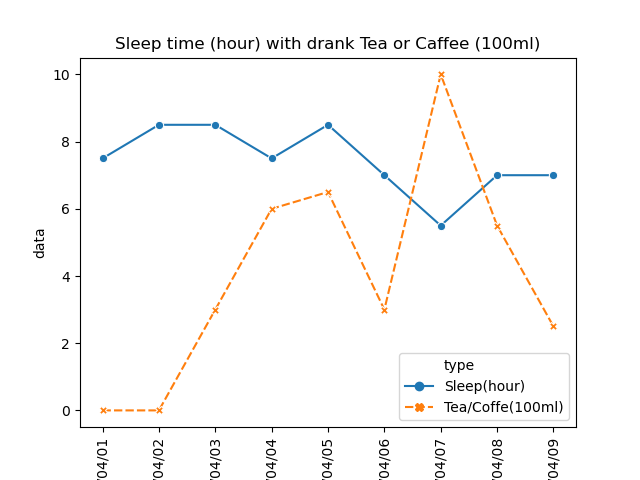
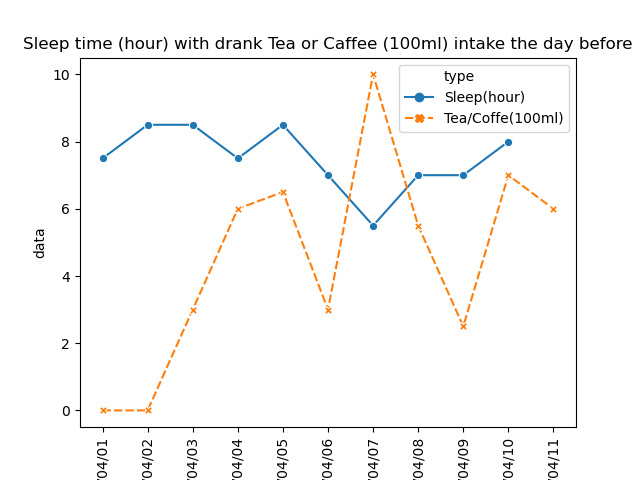
2020.04.10

diff --git a/index.html b/index.html
@@ -11,6 +11,6 @@
     </style>
   </head>
   <body>
-<img src='line.png'>
+その日の睡眠時間と<b>前日の</b>カフェイン飲料摂取量<img src='line.png'>
   </body>
 </html>

diff --git a/makeFig.py b/makeFig.py
@@ -60,7 +60,7 @@ fig.set_xticklabels(anlyDf.day, rotation="90")
 
 # 凡例、タイトル
 plt.legend()
-plt.title("Sleep time (hour) with drank Tea or Caffee (100ml)")  
+plt.title("Sleep time (hour) with drank Tea or Caffee (100ml) intake the day before")  
 
 # 画像の保存と画像データのリフレッシュ
 plt.savefig("line.png")
@@ -69,5 +69,6 @@ plt.clf()
 # html output
 with open("index.html", mode="w", encoding="utf_8") as fileObj:
   fileObj.write(html_header)
+  fileObj.write("その日の睡眠時間と<b>前日の</b>カフェイン飲料摂取量")
   fileObj.write("<img src='line.png'>")
   fileObj.write(html_footer)
